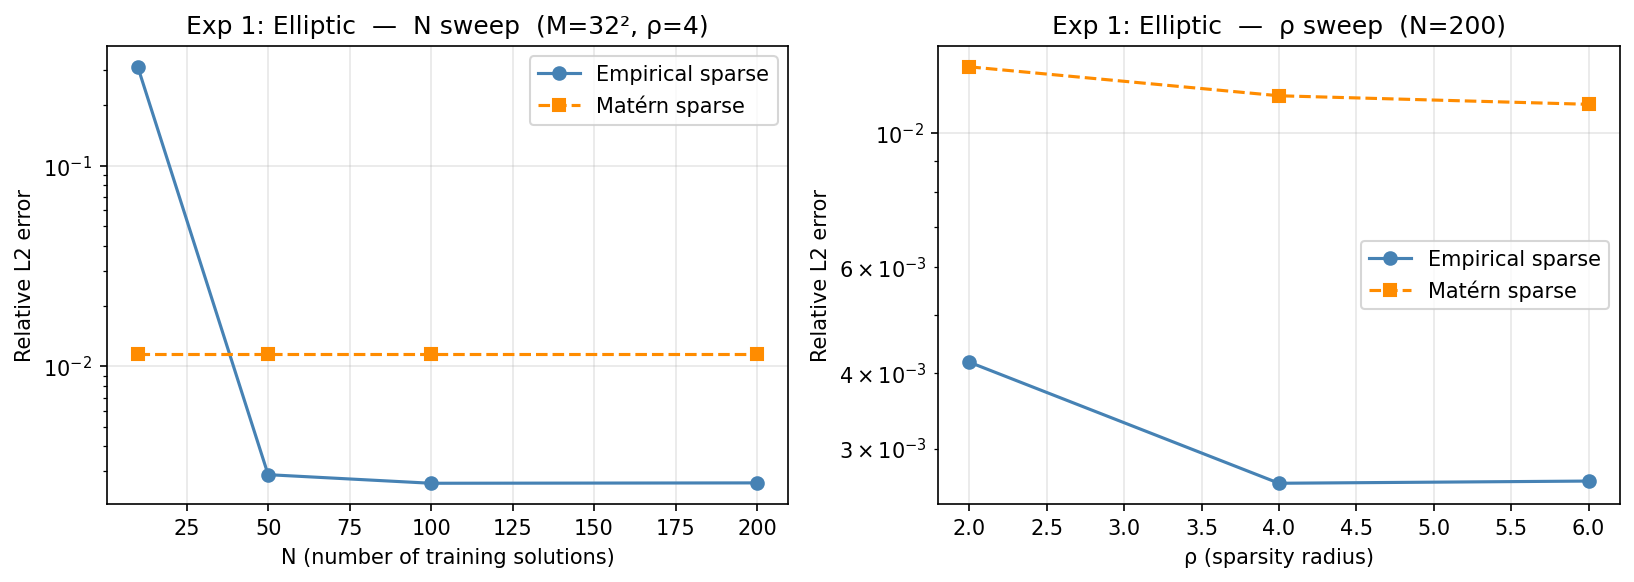
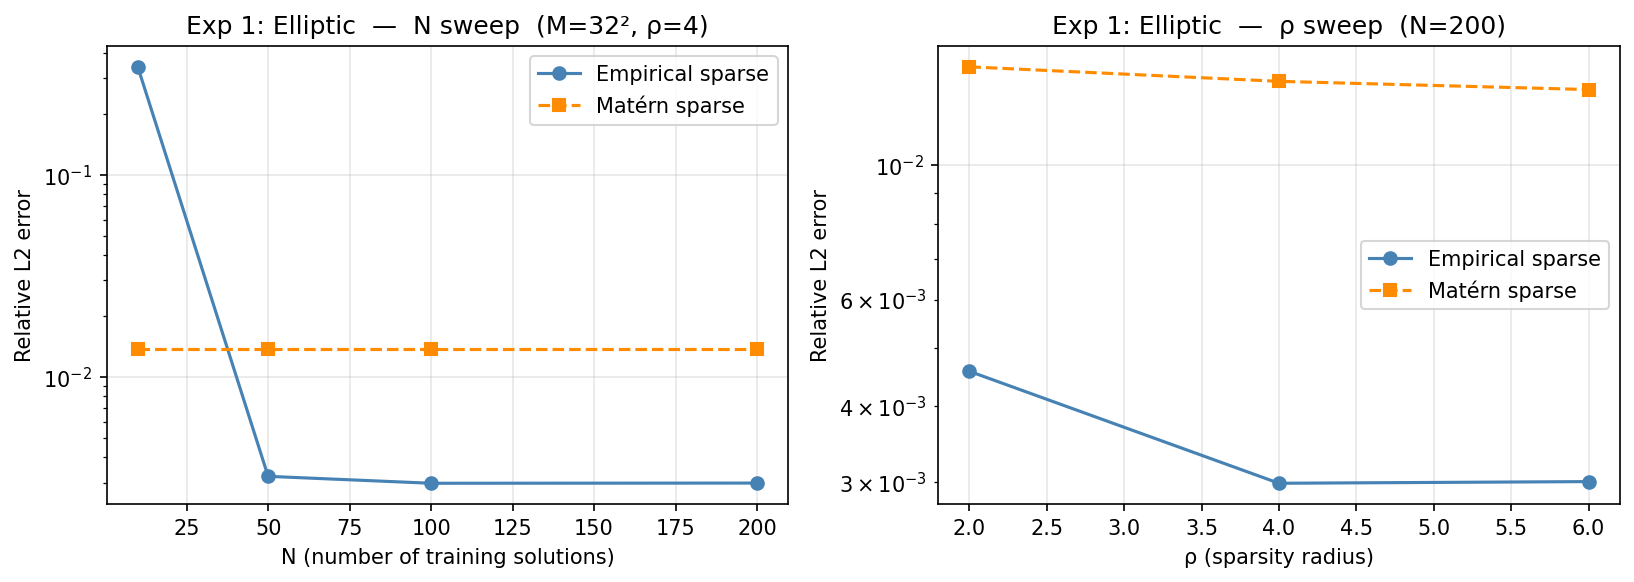
speed up DNS solve for Burgers and Allen-Cahn

diff --git a/src/krom/pde_baselines.py b/src/krom/pde_baselines.py
@@ -4,7 +4,11 @@ import math
 from dataclasses import dataclass
 from typing import Tuple, Union
 
+import numpy as np
 import torch
+import scipy.sparse as sp
+import scipy.sparse.linalg as spla
+from scipy.linalg import solve_banded
 
 
 @dataclass
@@ -126,7 +130,18 @@ def burgers_crank_nicolson_rollout(
         current = interior.clone()
         for _ in range(config.newton_max_iter):
             residual, jacobian = _burgers_residual_and_jacobian(current, interior, d1, d2, config)
-            delta = torch.linalg.solve(jacobian, residual)
+            # J is tridiagonal — use banded solver (O(n)) instead of dense LU (O(n³))
+            J_np = jacobian.numpy()
+            n  = J_np.shape[0]
+            ab = np.empty((3, n), dtype=np.float64)
+            ab[0, 1:]  = np.diag(J_np,  1)   # super-diagonal
+            ab[1, :]   = np.diag(J_np,  0)   # main diagonal
+            ab[2, :-1] = np.diag(J_np, -1)   # sub-diagonal
+            ab[0, 0]   = 0.0                  # unused corner
+            ab[2, -1]  = 0.0                  # unused corner
+            delta = torch.from_numpy(
+                solve_banded((1, 1), ab, residual.numpy(), overwrite_ab=True, overwrite_b=True, check_finite=False)
+            )
             current = current - delta
             if torch.linalg.norm(delta) <= config.newton_tol * max(1.0, float(torch.linalg.norm(current))):
                 break
@@ -227,7 +242,13 @@ def solve_allen_cahn_crank_nicolson(
 
     laplacian_snapshots[0] = lap_from_interior(interior)
 
-    eye = torch.eye(interior.numel(), dtype=dtype, device=device)
+    # Convert dense Laplacian to scipy sparse once — reused across all Newton steps.
+    # J = I - dt/2*(ε²*Δ + diag(1-3u²)) is sparse (5-point stencil + diagonal).
+    lap_csr = sp.csr_matrix(laplacian.numpy())
+    n_int_total = interior.numel()
+    # Fixed part of J (constant across Newton iterations within a step): I - dt/2*ε²*Δ
+    fixed_csr = sp.eye(n_int_total, format='csr') - 0.5 * config.dt * config.epsilon**2 * lap_csr
+
     for step in range(1, n_steps):
         previous = interior.clone()
         current = previous.clone()
@@ -240,10 +261,12 @@ def solve_allen_cahn_crank_nicolson(
             residual = current - previous - 0.5 * config.dt * (
                 config.epsilon**2 * (lap_current + lap_prev) + reaction_current + reaction_prev
             )
-            jacobian = eye - 0.5 * config.dt * (
-                config.epsilon**2 * laplacian + torch.diag(1.0 - 3.0 * current.square())
-            )
-            delta = torch.linalg.solve(jacobian, residual)
+            # Sparse Newton solve: J = fixed_csr - dt/2*diag(1-3u²)
+            diag_nl = -0.5 * config.dt * (1.0 - 3.0 * current.square().numpy())
+            J_sparse = fixed_csr + sp.diags(diag_nl, format='csr')
+            delta = torch.from_numpy(
+                spla.spsolve(J_sparse, residual.numpy()).copy()
+            ).to(dtype=dtype)
             current = current - delta
             if torch.linalg.norm(delta) <= config.newton_tol * max(1.0, float(torch.linalg.norm(current))):
                 break
